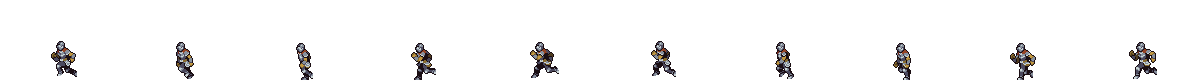
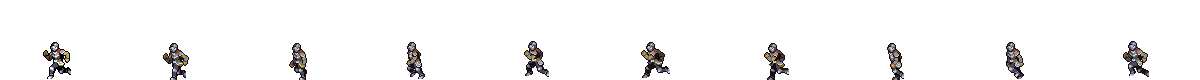
Updated Animations
Bonfire reached

diff --git a/index.js b/index.js
@@ -29,6 +29,16 @@ const foreground = new Sprite({
   imageSrc: "./resources/frontGrass.png",
 });
 
+const bonefire = new Sprite({
+  position: {
+    x: 840,
+    y: 662,
+  },
+  imageSrc: "./resources/bonfire.png",
+  scale: 2,
+  framesMax: 20,
+})
+
 // Creates a new sprite named "player". This will be the main sprite used by the user.
 const player = new Fighter({
   position: {
@@ -43,8 +53,8 @@ const player = new Fighter({
   framesMax: 10,
   scale: 3,
   offset: {
-    x: 200,
-    y: 200,
+    x: 120,
+    y: 80,
   },
   sprites: {
     idle: {
@@ -199,12 +209,13 @@ function animate() {
   context.fillStyle = "black";
   context.fillRect(0, 0, canvas.width, canvas.height);
   background.update();
+  bonefire.update();
   player.update();
   foreground.update();
   //enemy.update();
   //platform.drawEntity();
   //enemy.update();
-  scenes[0].drawScene();
+  // scenes[0].drawScene();
   charAnimation()
 }
 

diff --git a/classes.js b/classes.js
@@ -86,9 +86,9 @@ class Fighter extends Sprite {
     this.position.x += this.velocity.x;
     this.position.y += this.velocity.y;
 
-    if (this.position.y + this.height + this.velocity.y >= canvas.height - 145) {
+    if (this.position.y + this.height + this.velocity.y >= canvas.height - 203) {
       this.velocity.y = 0;
-      this.position.y = 700;
+      this.position.y = 648;
       this.onGround = "true";
     } else {
       this.velocity.y += gravity;
